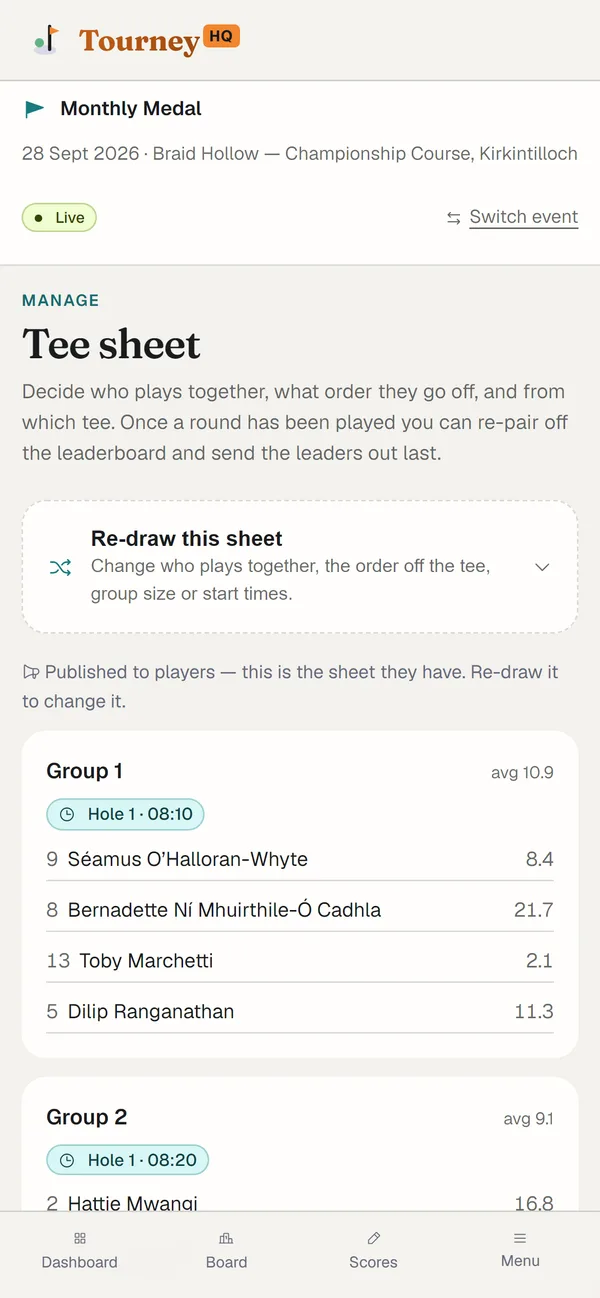
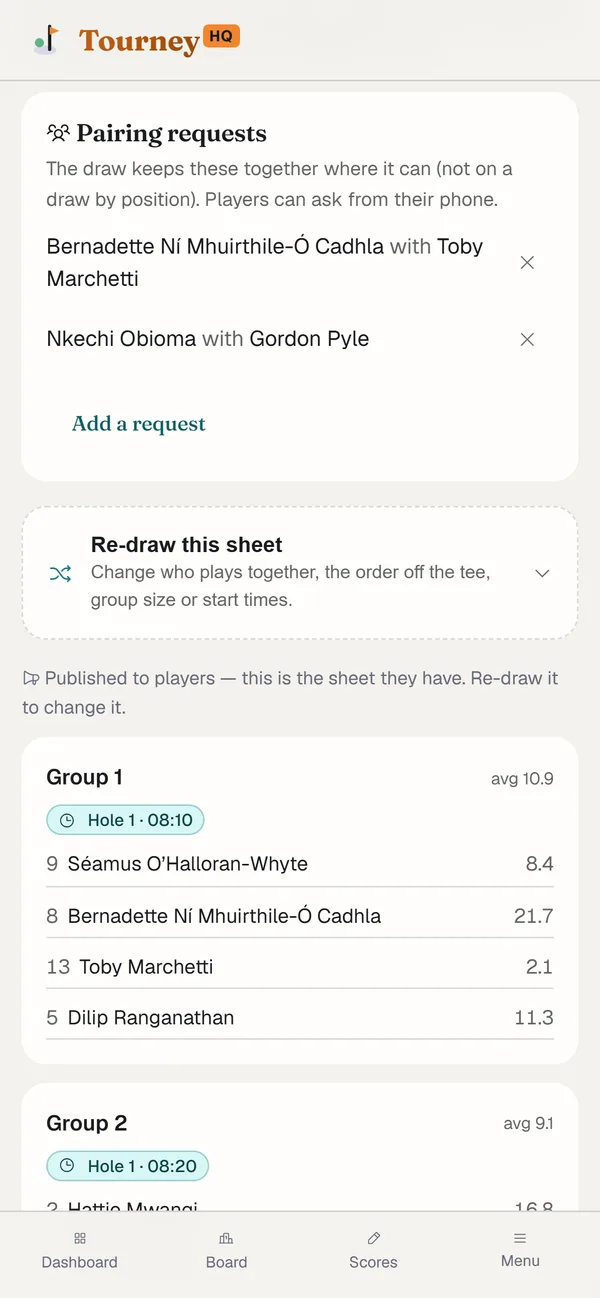
Landing: the 06:30 tee sheet shows pairing requests (#703, #704)
The tee sheet now opens with the organizer's pairing requests. The capture is
re-shot on the fixture's two seeded requests: one phone screen, scrolled to
the requests card, with the pair who asked together in Group 1 of the
published draw below it. Unedited; cropped and resized only.

Adds the facts-only line to the step and the feature list, in #703's own
terms: kept together where the draw can, not on a draw by position.

diff --git a/src/app/page.tsx b/src/app/page.tsx
@@ -78,9 +78,9 @@ const DAY: Array<{ time: string; who: "org" | "pl"; h: string; p: string; ul?: s
   {
     time: "06:30", who: "org", h: "The tee sheet is drawn from who's in.",
     p: "Groups by handicap, standings or sides — then yours to adjust. Publish it, and the day is set.",
-    ul: ["One tee, split tees or a shotgun", "Opt in, opt out, or captains send the list"],
+    ul: ["One tee, split tees or a shotgun", "Opt in, opt out, or captains send the list", "Pairing requests kept together — not on a draw by position"],
     screen: { name: "day-teesheet", by: "d", ...PHONE }, cap: "Organizer · the tee sheet",
-    alt: "The organizer's published tee sheet: Group 1 off hole 1 at 08:10, each player's handicap and the group average.",
+    alt: "The organizer's tee sheet: two pairing requests above the published draw, and the pair who asked together in Group 1, off hole 1 at 08:10.",
   },
   {
     time: "06:31", who: "pl", h: "Every player has their tee time.",

diff --git a/src/lib/landing/features.ts b/src/lib/landing/features.ts
@@ -63,6 +63,7 @@ export function featureGroups({ localGolf }: { localGolf: boolean }): FeatureGro
         { t: "Waiting list, one-tap member entry" },
         { t: "Weekly attendance, four ways", top: true },
         { t: "Tee sheet drawn from who's in", s: "by handicap, standings or sides — then editable", top: true },
+        { t: "Pairing requests", s: "players ask from their phone; the draw keeps them together where it can" },
         { t: "One tee, split tees or a shotgun" },
         { t: "Tee times pushed to players' phones", s: "for players who turned notifications on" },
         { t: "Print the tee sheet and the cards" },
